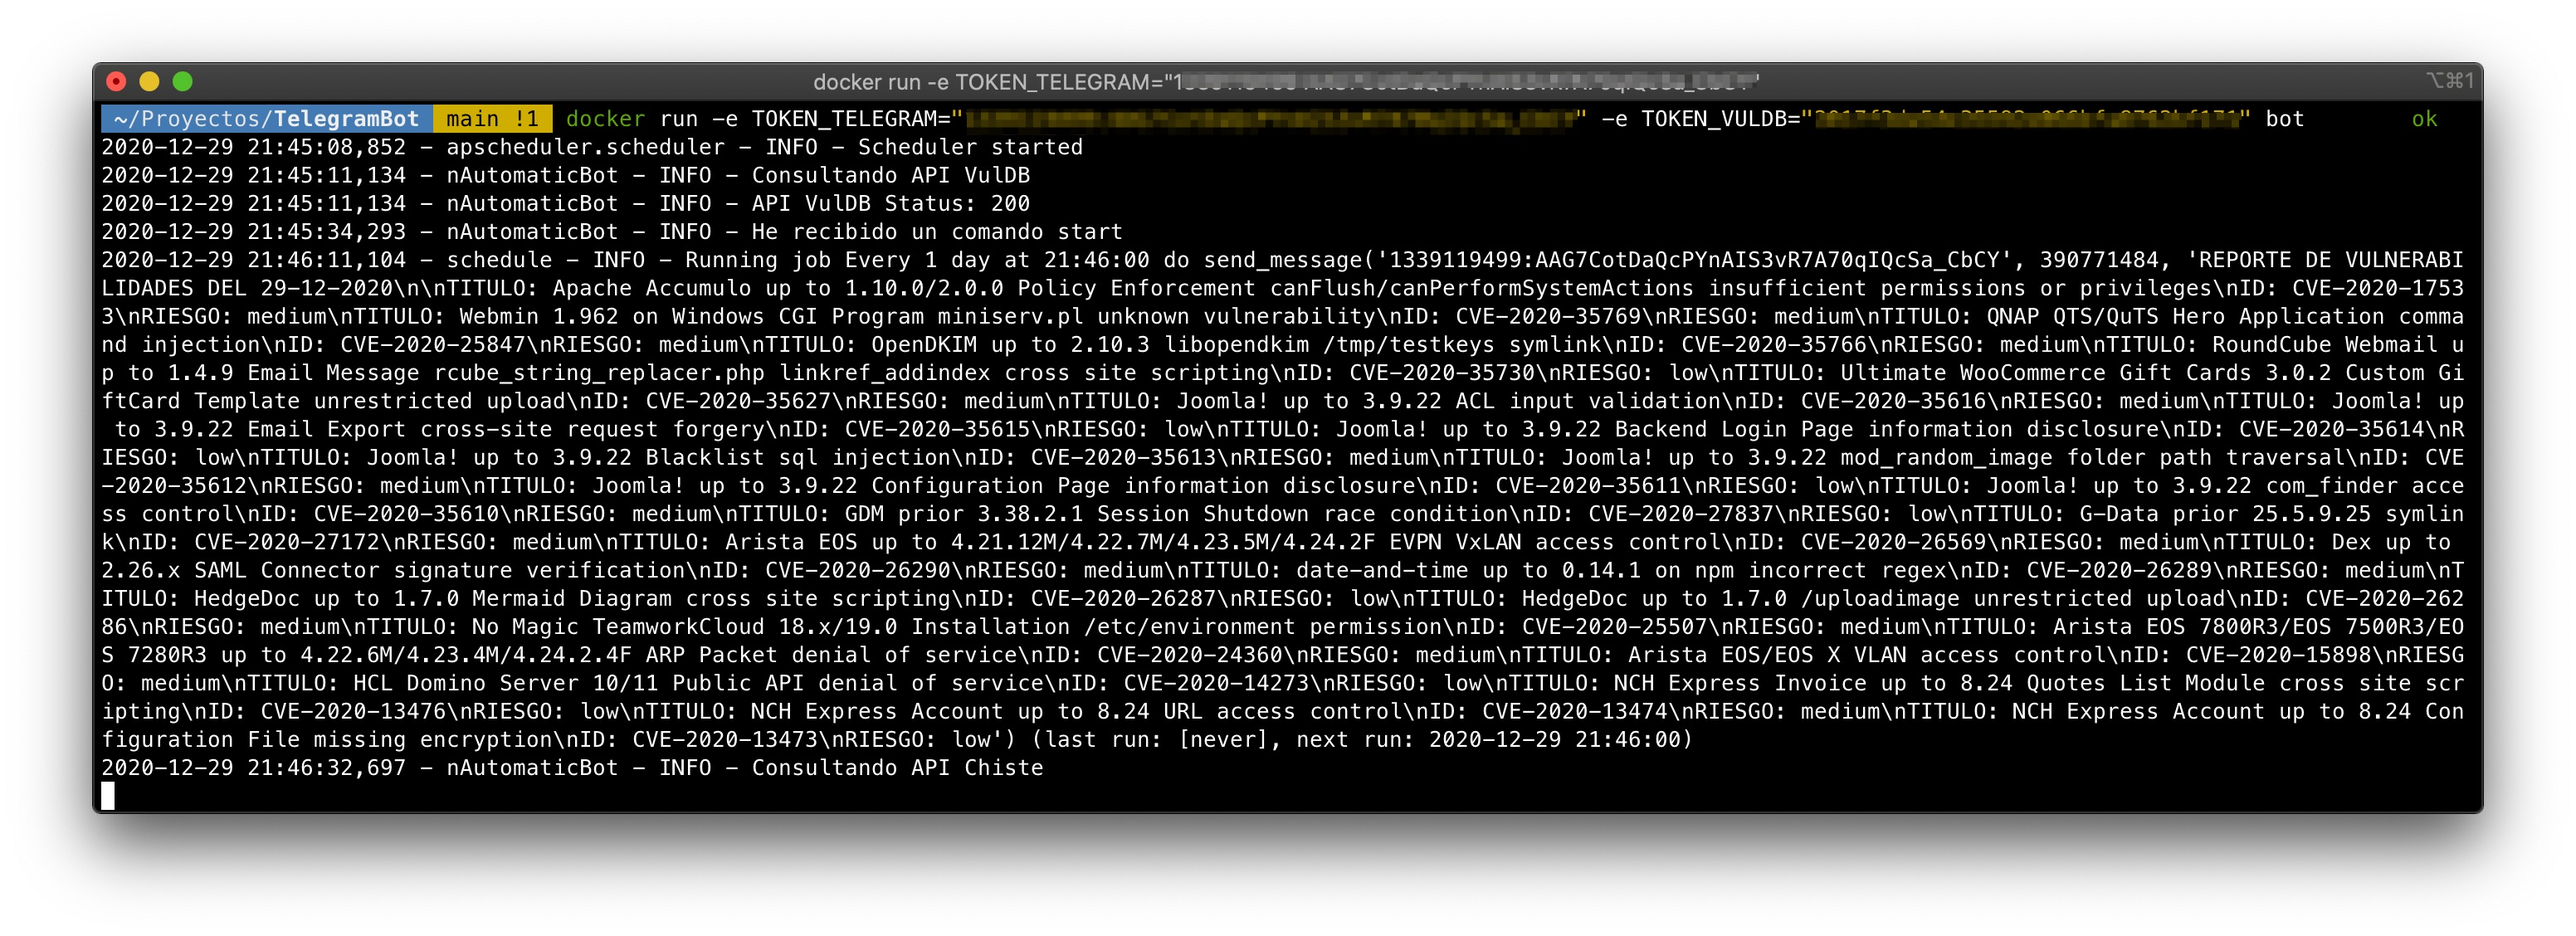
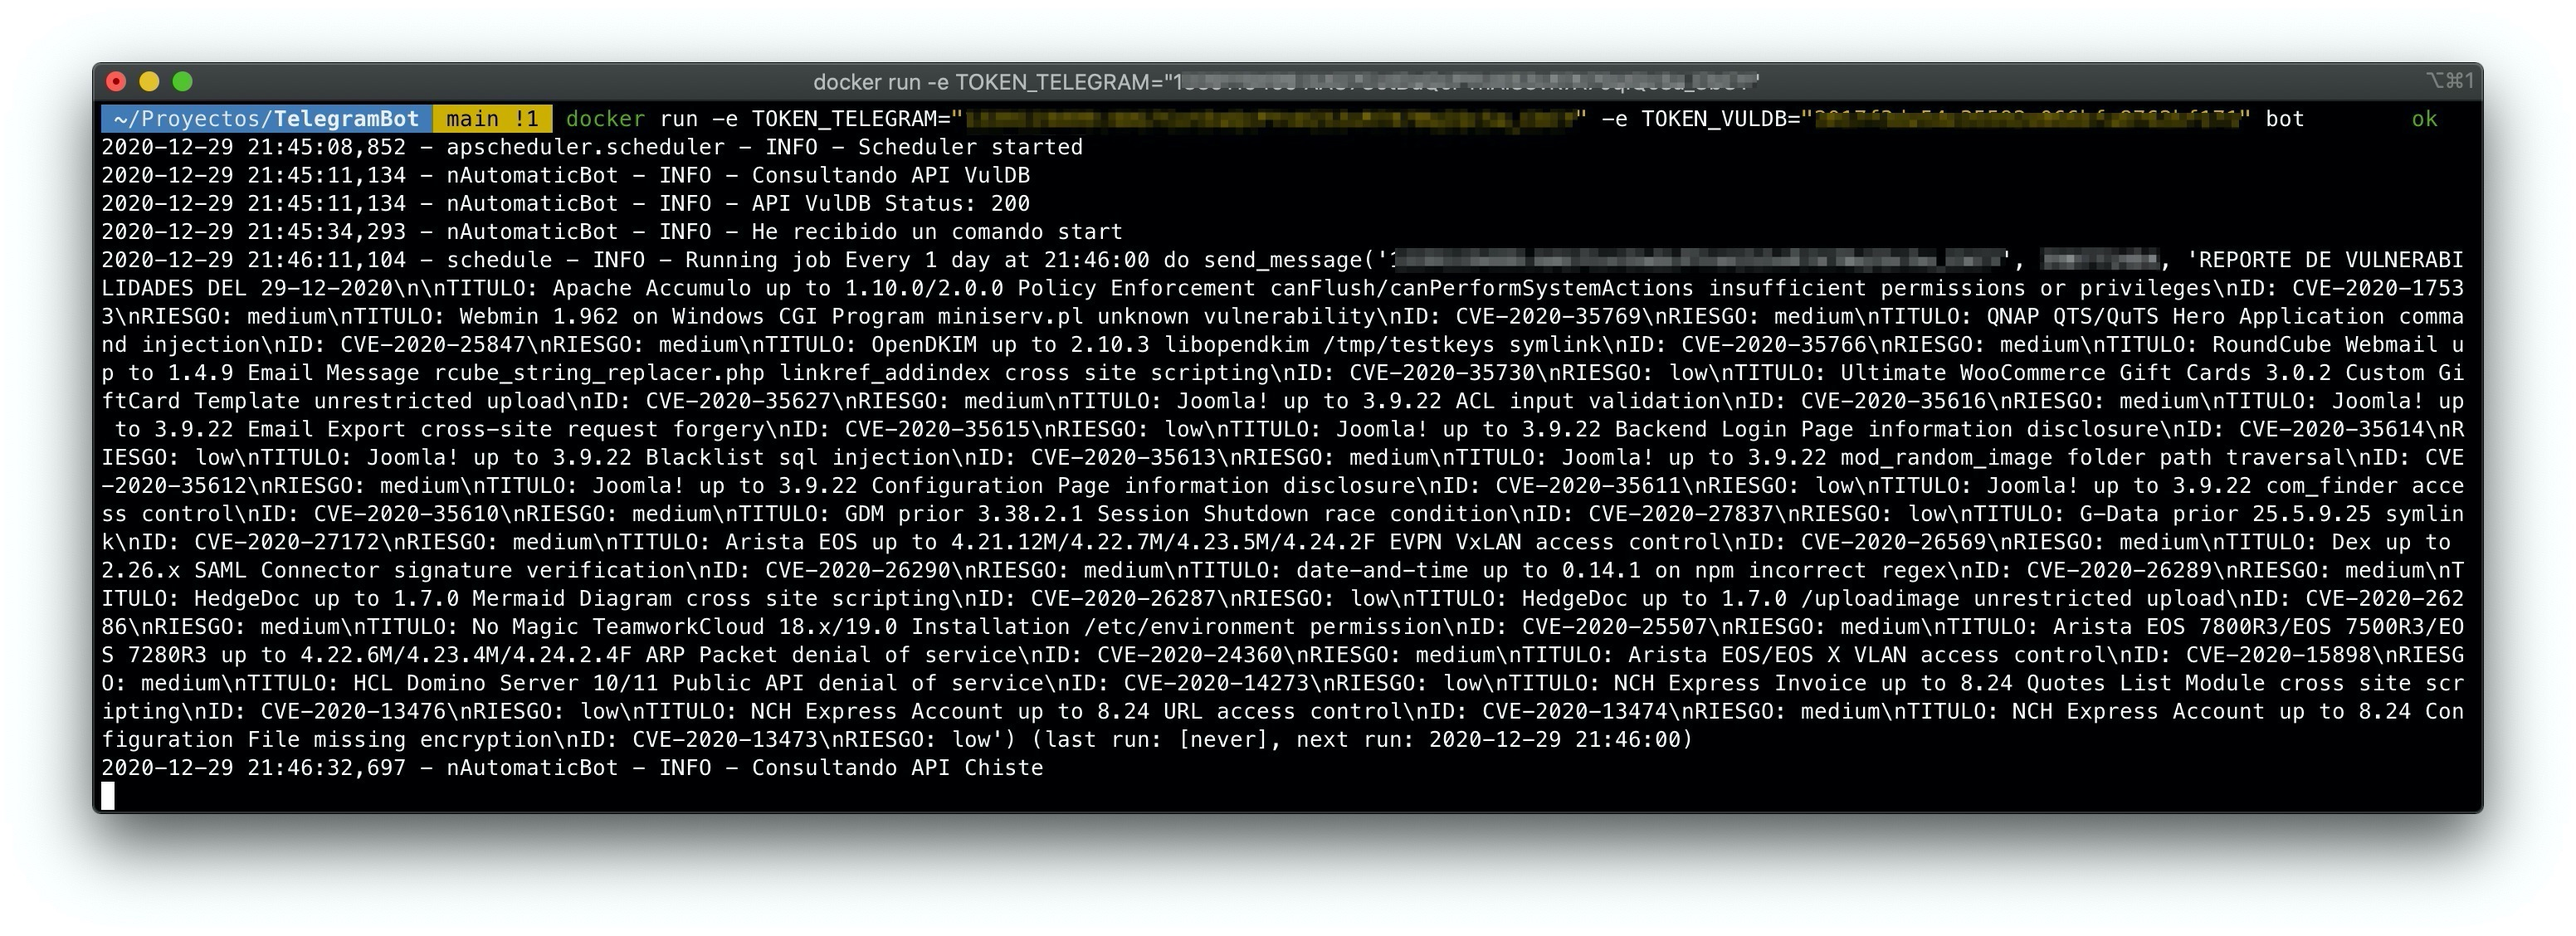
Notificaciones de CVE

Changed region(s): [[0.5312, 0.2482, 0.8438, 0.3103], [0.1562, 0.1241, 0.25, 0.1551]]

diff --git a/send.py b/send.py
@@ -16,7 +16,7 @@ def get_vulnerabilities(json, today):
             str_titulo = ("TITULO: %s" % json['result'][i]['entry']['title'])
             str_id = ("ID: %s" % json['result'][i]['source']['cve']['id'])
             str_riesgo = ("RIESGO: %s" % json['result'][i]['vulnerability']['risk']['name'])
-            texto_string = '\n' + str_titulo + '\n' + str_id + '\n' + str_riesgo
+            texto_string = '\n' + str_titulo + '\n' + str_id + '\n' + str_riesgo + '\n'
             texto = texto + texto_string
     return texto
 
